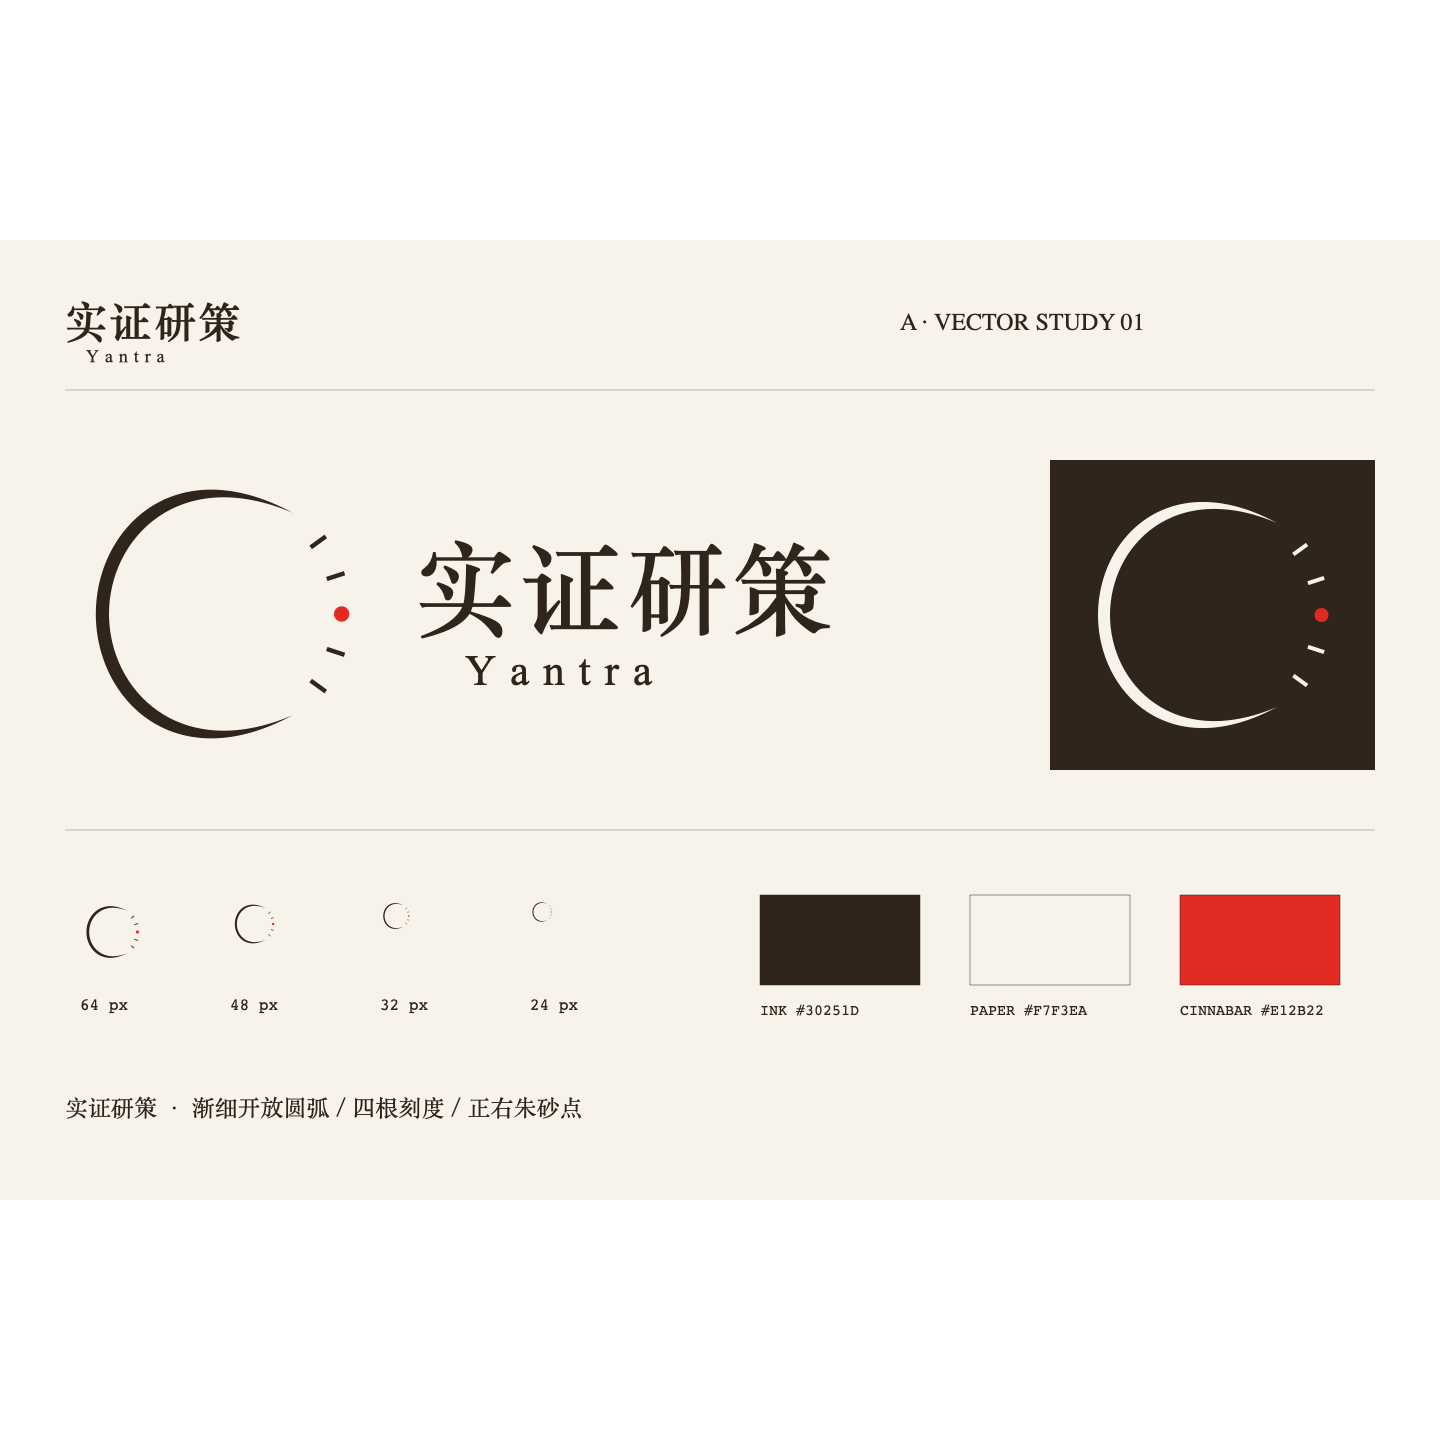
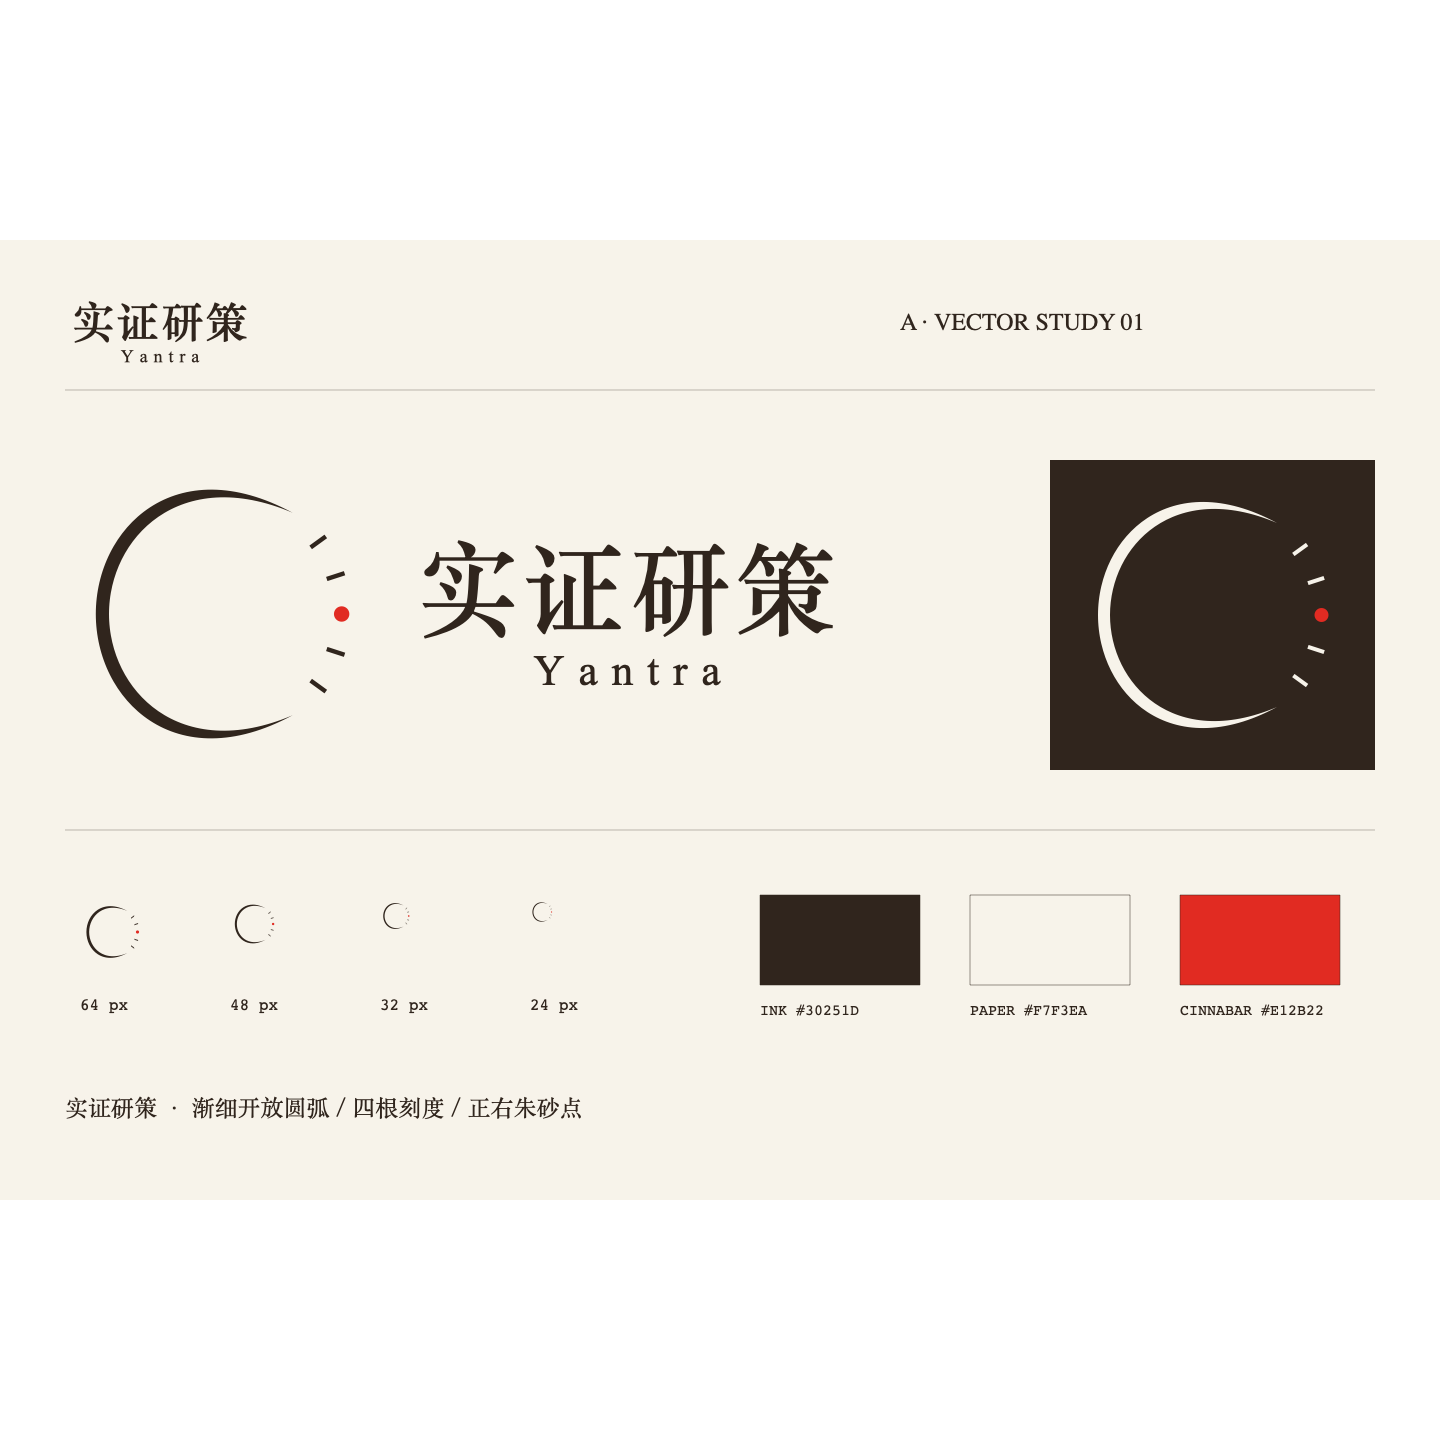
fix(brand): center Chinese and English wordmarks

Changed region(s): [[0.2812, 0.375, 0.5625, 0.5], [0.0312, 0.1875, 0.1875, 0.25]]

diff --git a/docs/BRAND.md b/docs/BRAND.md
@@ -1,6 +1,6 @@
 # 实证研策品牌识别
 
-日期：2026-10-14。品牌规范版本：0.2；适用于当前 Yantra 0.3.3 工作区。状态：已确认设计方向的矢量初稿，尚未作为产品界面或报告默认样式集成。
+日期：2026-10-14。品牌规范版本：0.3；适用于当前 Yantra 0.3.3 工作区。状态：已确认设计方向的矢量初稿，尚未作为产品界面或报告默认样式集成。
 
 ## 定位与设计方向
 
@@ -36,6 +36,8 @@
 ## 字体与组合
 
 中文初稿使用本机 Songti SC 的 600 字重，英文使用 Times New Roman。SVG 内保留可编辑文字，未嵌入字体、未转曲；缺少字体时回退会改变字形和宽度。本轮没有分发字体文件或完成字体许可审查，发布前须确认许可并以转曲文件固定字标。正文、界面和数字字体尚未定稿。
+
+中英文两行文字均居中对齐：横排与横排反白的文字中心为 x=520，竖排为 x=230，使用 SVG `text-anchor="middle"` 固定共同中心线。
 
 符号坐标框为 280 × 280；横排组合为 760 × 280，竖排为 460 × 440。以 SVG 原始比例等比缩放，不拉伸、不移动朱砂点、不独立改动刻度数量或字标间距。圆弧由封闭填充路径组成，保证两端渐细；刻度线宽为 4 个坐标单位，朱砂点直径为 14 个坐标单位。
 
